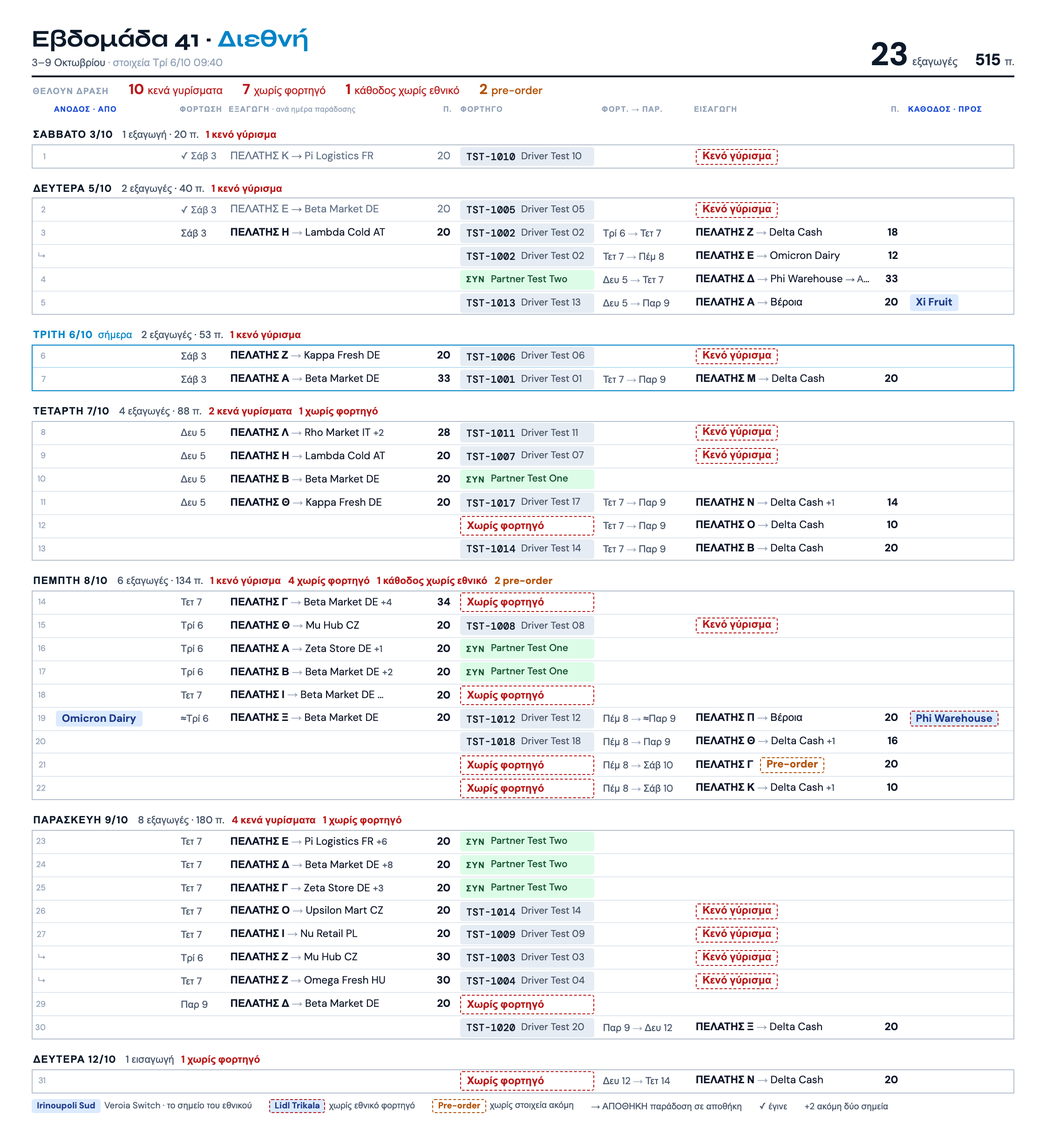
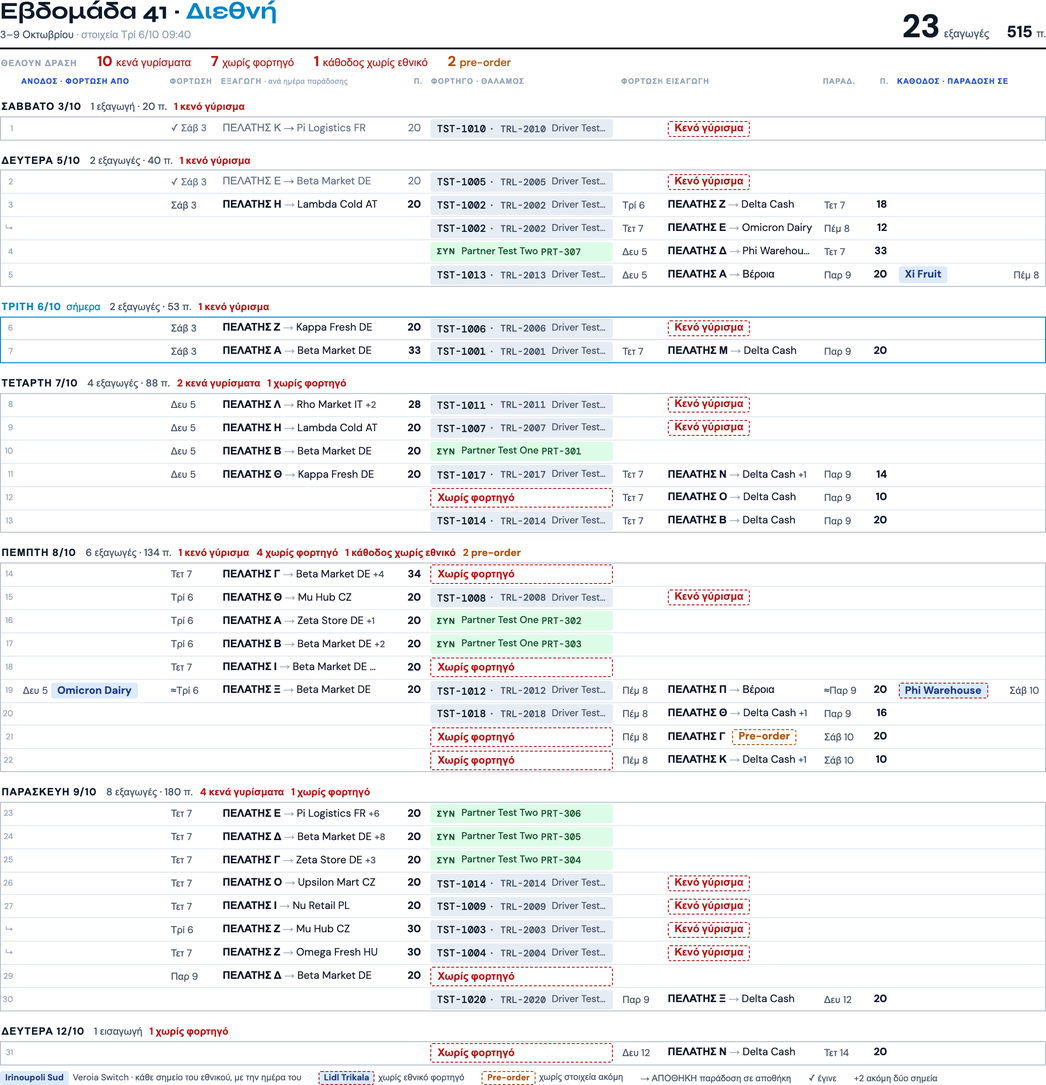
feat(week print): every national point with its day, import days beside their points, trailer plate; a real print button on the national board (owner + Pantelis 10/11)

diff --git a/core/week-paper.js b/core/week-paper.js
@@ -96,10 +96,14 @@ body { padding: 0 !important; margin: 0; }
 .wp .tk { display: flex; align-items: center; gap: .55em; background: var(--tk); border-radius: 2pt; height: calc(var(--rh) - 1.1mm); line-height: 1;
   padding: 0 .6em; overflow: hidden; }
 .wp .tk .pl { font: 500 .97em 'DM Mono', monospace; color: var(--navy); }
+.wp .tk .pl { flex: none; }
+/* the trailer's plate (Pantelis 10/11, «είναι σημαντικό»): a load is found in the yard by its trailer */
+.wp .tk .tr { flex: none; font: 500 .9em 'DM Mono', monospace; color: var(--body); margin-left: -.3em; }
 .wp .tk .dr { color: var(--body); font-size: .93em; overflow: hidden; text-overflow: ellipsis; }
 .wp .tk.p { background: #DCFCE7; }
 .wp .tk.p .pl { font: 700 .8em 'DM Sans', sans-serif; letter-spacing: .08em; color: var(--green); }
 .wp .tk.p .dr { color: var(--green); font-weight: 500; }
+.wp .tk.p .tr { color: var(--green); }
 .wp .tk.x { background: none; border: .9pt dashed var(--red); color: var(--red); font-weight: 700; }
 .wp .gap { display: inline-block; border: .9pt dashed var(--red); color: var(--red); font-weight: 700; border-radius: 2pt; padding: 0 .55em; line-height: 1.32; vertical-align: middle; }
 .wp .gap.am { border-color: var(--amber); color: var(--amber); margin-left: .35em; }
@@ -108,6 +112,18 @@ body { padding: 0 !important; margin: 0; }
 .wp .vs.ok { background: #EEF2F7; border-color: #EEF2F7; color: var(--done); font-weight: 500; }
 .wp .vs.x { border: .9pt dashed var(--red); }
 .wp .vs.q { background: none; border: .9pt dashed var(--mut); color: var(--body); }
+/* The national end of a row (owner 10/11): EVERY point in its own box and the day beside them, so the national
+   dispatcher reads from this sheet what he has to bring and to take. Two boxes share a line and are cut
+   («Irinoupo…») before one is left out; a third starts a second line and the row grows (measured 10/11: four
+   boxes on one line were one letter each). The day never shrinks. */
+.wp .vw { display: flex; align-items: center; gap: .3em; min-width: 0; }
+.wp .vw .vp { flex: 1 1 0; min-width: 0; display: flex; flex-wrap: wrap; gap: .12em .3em; padding: .1em 0; }
+.wp .vw .vs { flex: 0 1 auto; min-width: 0; max-width: calc(50% - .15em); }
+.wp .vw .vp.one .vs { max-width: 100%; }
+.wp .vw .vp:not(.one) .vs { padding: 0 .3em; }
+.wp .vw .vd { flex: none; color: var(--body); font-size: .93em; font-variant-numeric: tabular-nums; }
+.wp .vw.r .vd { margin-left: auto; padding-left: .2em; }
+.wp .vw.dn .vd { color: var(--done); }
 /* national sheet: section titles, the Veroia ledger (one line per day, numbers only, names where a truck is missing) */
 .wp .h { display: flex; align-items: baseline; gap: 8pt; margin-top: 7pt; font: 700 .98em 'DM Sans', sans-serif; letter-spacing: .07em; color: var(--navy); }
 .wp .h span { font-weight: 500; letter-spacing: 0; color: var(--mut); font-size: .9em; }
@@ -132,11 +148,18 @@ body { padding: 0 !important; margin: 0; }
 
 // state: 'done' (the national part ran) · 'plan' (a national truck has it) · 'none' (no national truck) ·
 // 'unknown' (the national read has not answered: never drawn as «no truck», unknown ≠ empty)
-function vsHTML(v) {
+// v = { points: [names], date, state }: every point is drawn (owner 10/11); `side` 'up' = the day first (the
+// supplier's loading day), 'dn' = the day last (the delivery day), each beside the points it belongs to.
+// The old shape { name, more } still draws one box with «+N».
+function vsHTML(v, side) {
   if (!v) return '';
   const cls = { done: ' ok', none: ' x', unknown: ' q' }[v.state] || '';
-  const more = v.more ? ' +' + v.more : '';
-  return `<span class="vs${cls}">${v.state === 'done' ? '✓ ' : ''}${_esc(pointName(v.name))}${more}</span>`;
+  const pts = v.points && v.points.length ? v.points : [v.name];
+  const more = !(v.points && v.points.length) && v.more ? ' +' + v.more : '';
+  const boxes = pts.map((n, i) => `<span class="vs${cls}">${v.state === 'done' && i === 0 ? '✓ ' : ''}${_esc(pointName(n))}${more}</span>`).join('');
+  const day = v.date ? `<span class="vd">${_esc(v.date)}</span>` : '';
+  const pack = `<div class="vp${pts.length === 1 ? ' one' : ''}">${boxes}</div>`;
+  return `<div class="vw${side === 'dn' ? ' r' : ''}${v.state === 'done' ? ' dn' : ''}">${side === 'dn' ? pack + day : day + pack}</div>`;
 }
 // x = an export or import side: {client, dest, more, piece, lot, pre}. An import pre-order has no place yet and
 // is drawn by rowHTML (client + tag); an export pre-order keeps its route and gets the tag after it. «ΑΠ» = a piece taken from stock; a lot goes
@@ -148,8 +171,9 @@ function sideHTML(x) {
 }
 function truckHTML(t) {
   if (!t || t.kind === 'none') return '<td class="tkc"><div class="tk x">Χωρίς φορτηγό</div></td>';
-  if (t.kind === 'par') return `<td class="tkc"><div class="tk p"><span class="pl">ΣΥΝ</span><span class="dr">${_esc(t.name || '—')}</span></div></td>`;
-  return `<td class="tkc"><div class="tk"><span class="pl">${_esc(t.plate || '—')}</span><span class="dr">${_esc(t.name || '')}</span></div></td>`;
+  // a partner's plates are free text («ΕΚΑ1234 / Ρ5678»): after the name, which is what the office knows him by
+  if (t.kind === 'par') return `<td class="tkc"><div class="tk p"><span class="pl">ΣΥΝ</span><span class="dr">${_esc(t.name || '—')}</span>${t.plates ? `<span class="tr">${_esc(t.plates)}</span>` : ''}</div></td>`;
+  return `<td class="tkc"><div class="tk"><span class="pl">${_esc(t.plate || '—')}</span>${t.trailer ? `<span class="tr">· ${_esc(t.trailer)}</span>` : ''}<span class="dr">${_esc(t.name || '')}</span></div></td>`;
 }
 // unknown pallets are «—», never 0; a group with a member off the record says «22+;» (the board's «22 +?»)
 const _unk = (x) => x.pallets == null || x.pallets === '';
@@ -158,22 +182,25 @@ const _arrow = (s) => _esc(s).replace(/ → /g, '<span class="ar">→</span>');
 
 function rowHTML(r, cls) {
   const ex = r.ex, im = r.im;
-  const c = [`<td class="i">${_esc(r.no == null ? '' : r.no)}</td>`, `<td>${vsHTML(r.up)}</td>`];
+  const c = [`<td class="i">${_esc(r.no == null ? '' : r.no)}</td>`, `<td>${vsHTML(r.up, 'up')}</td>`];
   if (ex) {
     const g = ex.done ? ' dn' : '';
     c.push(`<td class="dt${g}">${ex.done ? '<span class="tick">✓</span>' : ''}${_esc(ex.date || '—')}</td>`,
       `<td class="${g.trim()}">${sideHTML(ex)}</td>`, `<td class="p${g}">${_pal(ex)}</td>`);
   } else c.push('<td></td><td></td><td></td>');
   c.push(truckHTML(r.truck));
-  if (r.gap) c.push('<td></td>', '<td><span class="gap">Κενό γύρισμα</span></td>', '<td></td>');
-  else if (im && im.unread) c.push('<td></td>', '<td><span class="gap am" style="margin-left:0">Εισαγωγή εκτός προβολής</span></td>', '<td></td>');
+  // The import's two days stand each beside its own point (Pantelis 10/11): loading before the client, delivery
+  // after the destination. `dates` («Τρί 6 → Τετ 7») is the old shape, read as the two.
+  if (r.gap) c.push('<td></td>', '<td><span class="gap">Κενό γύρισμα</span></td>', '<td></td>', '<td></td>');
+  else if (im && im.unread) c.push('<td></td>', '<td><span class="gap am" style="margin-left:0">Εισαγωγή εκτός προβολής</span></td>', '<td></td>', '<td></td>');
   else if (im) {
     const g = im.done ? ' dn' : '';
     const txt = im.pre ? `<span class="cl">${_esc(im.client || '—')}</span> <span class="gap am">Pre-order</span>` : sideHTML(im);
-    c.push(`<td class="dt${g}">${im.done ? '<span class="tick">✓</span>' : ''}${_arrow(im.dates || '—')}</td>`,
-      `<td class="${g.trim()}">${txt}</td>`, `<td class="p${g}">${im.pre && !(+im.pallets > 0) ? '' : _pal(im)}</td>`);   // a pre-order's 0 is nobody's count
-  } else c.push('<td></td><td></td><td></td>');
-  c.push(`<td>${vsHTML(r.dn)}</td>`);
+    const two = im.load != null || im.del != null ? [im.load, im.del] : String(im.dates || '').split(' → ');
+    c.push(`<td class="dt${g}">${im.done ? '<span class="tick">✓</span>' : ''}${_esc(two[0] || '—')}</td>`,
+      `<td class="${g.trim()}">${txt}</td>`, `<td class="dt${g}">${_esc(two[1] || '')}</td>`, `<td class="p${g}">${im.pre && !(+im.pallets > 0) ? '' : _pal(im)}</td>`);   // a pre-order's 0 is nobody's count
+  } else c.push('<td></td><td></td><td></td><td></td>');
+  c.push(`<td>${vsHTML(r.dn, 'dn')}</td>`);
   return `<tr class="${cls.join(' ')}">${c.join('')}</tr>`;
 }
 
@@ -206,20 +233,24 @@ function workWords(t) {
   ].filter(Boolean);
 }
 
-/** p = { week, range, stamp, days: [{ head, today, rows: [row] }] }; row = { no, up, ex, truck, im, gap, dn }
+/** p = { week, range, stamp, days: [{ head, today, rows: [row] }] }; row = { no, up, ex, truck, im, gap, dn };
+ *  up / dn = { points, date, state }; truck = { kind, plate, trailer, name } | { kind:'par', name, plates }; im = { load, del, … }
  *  (see rowHTML / vsHTML / sideHTML for the fields; a side's pallets: null = unknown, palMiss = partly known;
  *  a row may carry `rid`, the board row's id: never printed, the board rig compares the two row by row). Days without rows are not printed. */
 function intlHTML(p) {
   const days = (p.days || []).filter((d) => d.rows && d.rows.length);
   const all = days.reduce((a, d) => a.concat(d.rows), []);
-  const sz = size(all.length, days.length), T = tally(all);
+  // a national end with more than two points takes a second line (two boxes a line): the page arithmetic counts it
+  const lines = (v) => (v && v.points ? Math.ceil(v.points.length / 2) : 1);
+  const extra = all.reduce((n, r) => n + Math.max(lines(r.up), lines(r.dn)) - 1, 0);
+  const sz = size(all.length + extra * 0.9, days.length), T = tally(all);
   const body = [];
   for (const d of days) {
     const t = tally(d.rows);
     const w = workWords(t).map(([c, s]) => `<span class="w${c}">${s}</span>`).join('');
     // a day with imports only (they load that day) says so, never «0 εξαγωγές · 0 π.»
     const head = t.exports ? `${plural(t.exports, 'εξαγωγή', 'εξαγωγές')} · ${t.pallets} π.${t.palUnknown ? ' +;' : ''}` : plural(d.rows.length, 'εισαγωγή', 'εισαγωγές');
-    body.push(`<tr class="day${d.today ? ' today' : ''}"><td colspan="10">${_esc(d.head)}${d.today ? '<span class="t">σήμερα</span>' : ''}` +
+    body.push(`<tr class="day${d.today ? ' today' : ''}"><td colspan="11">${_esc(d.head)}${d.today ? '<span class="t">σήμερα</span>' : ''}` +
       `<span>${head}</span>${w}</td></tr>`);
     d.rows.forEach((r, j) => body.push(rowHTML(r, [j === 0 ? 'f' : '', j === d.rows.length - 1 ? 'l' : '', d.today ? 'td' : ''].filter(Boolean))));
   }
@@ -228,7 +259,7 @@ function intlHTML(p) {
   // The legend explains only what this sheet holds: a mark that is not on the page is not a line to read.
   const hasVs = all.some((r) => r.up || r.dn);
   const legend = [
-    hasVs && '<span><span class="vs">Irinoupoli Sud</span>Veroia Switch · το σημείο του εθνικού</span>',
+    hasVs && '<span><span class="vs">Irinoupoli Sud</span>Veroia Switch · κάθε σημείο του εθνικού, με την ημέρα του</span>',
     (T.dnNone || T.upNone) && '<span><span class="vs x">Lidl Trikala</span>χωρίς εθνικό φορτηγό</span>',
     all.some((r) => (r.up && r.up.state === 'unknown') || (r.dn && r.dn.state === 'unknown')) && '<span><span class="vs q">Lidl Trikala</span>το εθνικό δεν διαβάστηκε</span>',
     T.pre && '<span><span class="gap am">Pre-order</span>χωρίς στοιχεία ακόμη</span>',
@@ -239,13 +270,13 @@ function intlHTML(p) {
   return `<link rel="stylesheet" href="${FONTS}" media="none" onload="this.media='all'"><style>${CSS}
 @page { @bottom-left { content: "Petras Group TMS · ${title} · στοιχεία ${_esc(p.stamp)}"; font: 7pt 'DM Sans', sans-serif; color: #94A3B8; } }
 .wp { --fs:${sz.fs}pt; --rh:${sz.rh}mm; }
-.wp col.k-i{width:1.8%} .wp col.k-up{width:12.8%} .wp col.k-ed{width:5%} .wp col.k-ex{width:20.8%} .wp col.k-p{width:2.8%} .wp col.k-tk{width:14.4%} .wp col.k-id{width:9.4%} .wp col.k-im{width:19%} .wp col.k-dn{width:11.2%}
+.wp col.k-i{width:1.6%} .wp col.k-up{width:14.2%} .wp col.k-ed{width:4.9%} .wp col.k-ex{width:17.6%} .wp col.k-p{width:2.5%} .wp col.k-tk{width:18.2%} .wp col.k-id{width:4.3%} .wp col.k-im{width:15%} .wp col.k-dl{width:4.6%} .wp col.k-dn{width:14.6%}
 </style><div class="wp">
 <header class="mast"><div><h1>Εβδομάδα ${_esc(p.week)} · <em>Διεθνή</em></h1><div class="sub">${_esc(p.range)} <i>· στοιχεία ${_esc(p.stamp)}</i></div></div>
 <div class="kpi"><span class="big"><b>${T.exports}</b><span>${T.exports === 1 ? 'εξαγωγή' : 'εξαγωγές'}</span></span><span class="mid"><b>${T.pallets}</b><span>π.${T.palUnknown ? ' +;' : ''}</span></span></div></header>
 <div class="act">${act ? '<label>ΘΕΛΟΥΝ ΔΡΑΣΗ</label>' + act : ''}</div>
-<table class="b"><colgroup><col class="k-i"><col class="k-up"><col class="k-ed"><col class="k-ex"><col class="k-p"><col class="k-tk"><col class="k-id"><col class="k-im"><col class="k-p"><col class="k-dn"></colgroup>
-<thead><tr><th></th><th class="vh">ΑΝΟΔΟΣ · ΑΠΟ</th><th>ΦΟΡΤΩΣΗ</th><th>ΕΞΑΓΩΓΗ <small>· ανά ημέρα παράδοσης</small></th><th class="r">Π.</th><th>ΦΟΡΤΗΓΟ</th><th>ΦΟΡΤ. → ΠΑΡ.</th><th>ΕΙΣΑΓΩΓΗ</th><th class="r">Π.</th><th class="vh">ΚΑΘΟΔΟΣ · ΠΡΟΣ</th></tr></thead>
+<table class="b"><colgroup><col class="k-i"><col class="k-up"><col class="k-ed"><col class="k-ex"><col class="k-p"><col class="k-tk"><col class="k-id"><col class="k-im"><col class="k-dl"><col class="k-p"><col class="k-dn"></colgroup>
+<thead><tr><th></th><th class="vh">ΑΝΟΔΟΣ · ΦΟΡΤΩΣΗ ΑΠΟ</th><th>ΦΟΡΤΩΣΗ</th><th>ΕΞΑΓΩΓΗ <small>· ανά ημέρα παράδοσης</small></th><th class="r">Π.</th><th>ΦΟΡΤΗΓΟ · ΘΑΛΑΜΟΣ</th><th>ΦΟΡΤΩΣΗ</th><th>ΕΙΣΑΓΩΓΗ</th><th>ΠΑΡΑΔ.</th><th class="r">Π.</th><th class="vh">ΚΑΘΟΔΟΣ · ΠΑΡΑΔΟΣΗ ΣΕ</th></tr></thead>
 <tbody>${body.join('')}</tbody></table>
 <div class="legend">${legend.join('')}</div>
 </div>`;

diff --git a/modules/weekly_intl_v2.js b/modules/weekly_intl_v2.js
@@ -3017,22 +3017,16 @@ function _qAct(i) {
 // is (the board's ghost line), never the optimistic link.
 const _PAPER_SKIP = Object.freeze(['split', 'cont', 'relay']);
 const _paperDay = (d) => (DAY_RE.test(d || '') ? DOW_SHORT[_dow(d)] + ' ' + (+d.slice(8, 10)) : '');
-// The point with the most pallets names the box, the others are «+N» (owner 9/11). Stops without their own
-// pallets (a single-point order) leave the first one.
-function _paperPoint(stops) {
-  if (!stops.length) return null;
-  const pal = (x) => (x.pal != null && x.pal !== '' && isFinite(+x.pal) ? +x.pal : -1);
-  let best = stops[0];
-  stops.forEach((x) => { if (pal(x) > pal(best)) best = x; });
-  return { name: _splitName(best.n).title, more: stops.length - 1 };
-}
+// Every point of the national end, in the order of its stops, and the day beside them (owner 10/11: the national
+// dispatcher reads from this sheet what he has to bring and to take). The day is the order's own: the supplier's
+// loading day for an ascent, the final delivery day for a descent.
 // One reading per VS order (natBySrc, the board's own): done · a national truck has it · none · not read yet.
 // A VS order with no point to name is still a VS order: its box takes the fallback name (the board's own, the client).
-function _paperVs(oid, stops, fallback) {
-  const pt = _paperPoint(stops) || { name: fallback || '—', more: 0 };
+function _paperVs(oid, stops, fallback, day) {
+  const points = stops.map((x) => _splitName(x.n).title).filter(Boolean);
   let state = 'unknown';
   if (_natState() === 'ok') { const n = (_D().data.natBySrc || {})[oid]; state = !n ? 'none' : (n.done === true ? 'done' : (n.carrier ? 'plan' : 'none')); }
-  return Object.assign(pt, { state });
+  return { points: points.length ? points : [fallback || '—'], date: _paperDay(day), state };
 }
 function _paperDest(recs) {
   const stops = [];
@@ -3051,8 +3045,10 @@ function _paperTruck(row) {
   if (!row || !row.saved) return { kind: 'none' };
   const D = _D().data, lab = (list, id) => ((list || []).find((x) => x.id === id) || {}).label;
   const partner = row.partnerLabel || lab(D.partners, row.partnerId) || (row.partnerId ? '—' : '');
-  if (partner) return { kind: 'par', name: partner };
-  return { kind: 'own', plate: row.truckLabel || lab(D.trucks, row.truckId) || '—', name: row.driverLabel || lab(D.drivers, row.driverId) || '' };
+  if (partner) return { kind: 'par', name: partner, plates: row.partnerPlates || '' };
+  // the trailer by _asgHTML's own chain: «—» when it is set but outside the active list, never nothing
+  return { kind: 'own', plate: row.truckLabel || lab(D.trucks, row.truckId) || '—', trailer: row.trailerLabel || lab(D.trailers, row.trailerId) || (row.trailerId ? '—' : ''),
+    name: row.driverLabel || lab(D.drivers, row.driverId) || '' };
 }
 function _paperImp(imp) {
   const I = W(), { members } = _impMembers(imp);
@@ -3063,9 +3059,9 @@ function _paperImp(imp) {
   const del = vs ? (v.iso ? (v.est ? '≈' : '') + _paperDay(v.iso) : '') : _paperDay(_day(f['Delivery DateTime']));
   const d = vs ? { dest: 'Βέροια', more: 0 } : _paperDest(members);
   return {
-    im: Object.assign({ dates: [load, del].filter(Boolean).join(' → '), client: I.clientName(f) || _firstTitle(f, 'load'), dest: d.dest, more: d.more,
+    im: Object.assign({ load, del, client: I.clientName(f) || _firstTitle(f, 'load'), dest: d.dest, more: d.more,
       done: !!st.delivered, pre: _isPre(f) }, _paperPal(members), _paperStock(members)),
-    dn: vs ? _paperVs(imp.id, _stopsOf(f, 'del'), I.clientName(f)) : null,
+    dn: vs ? _paperVs(imp.id, _stopsOf(f, 'del'), I.clientName(f), _day(f['Delivery DateTime'])) : null,
   };
 }
 function _paperRow(e) {
@@ -3087,7 +3083,7 @@ function _paperRow(e) {
   const d = _paperDest(exps);
   // A VS export loads at Veroia: its day is the Veroia day (the board's own chip), never the supplier's.
   const v = vs ? (I.vsCd(pf, 'exp') || {}) : null;
-  base.up = vs ? _paperVs(exps[0].id, _stopsOf(pf, 'load'), I.clientName(pf)) : null;
+  base.up = vs ? _paperVs(exps[0].id, _stopsOf(pf, 'load'), I.clientName(pf), _day(pf['Loading DateTime'])) : null;
   base.ex = Object.assign({ date: vs ? (v.iso ? (v.est ? '≈' : '') + _paperDay(v.iso) : '') : _paperDay(_day(pf['Loading DateTime'])),
     client: I.clientName(pf) || _firstTitle(pf, 'load'), dest: d.dest, more: d.more, done: !!st.delivered,
     pre: !isGroup && _isPre(pf) }, _paperPal(exps), _paperStock(exps));   // a pre-order export is said, as the board's «PRE»

diff --git a/tests/critics/wi4-board-rig.js b/tests/critics/wi4-board-rig.js
@@ -3885,8 +3885,11 @@ async function scnPaper(browser, origin) {
       trs: cnt(/<tr class="(?!day)/g), nRows: rows.length, days: cnt(/<tr class="day/g), nDays: p.days.filter((d) => d.rows.length).length,
       gaps: [(tbody.match(/>Κενό γύρισμα</g) || []).length, strip('κεν')], noTruck: [(tbody.match(/class="tk x"/g) || []).length, strip('χωρίς φορτηγό')],
       dn: [rows.filter((x) => x.dn && x.dn.state === 'none').length, strip('κάθοδο')], up: [rows.filter((x) => x.up && x.up.state === 'none').length, strip('άνοδο')],
-      vsBoxes: [(tbody.match(/class="vs/g) || []).length, rows.filter((x) => x.up).length + rows.filter((x) => x.dn).length],
-      bad: (h.replace(/<style>[\s\S]*?<\/style>/, '').match(/RT-\d+|κύκλ|σκέλ|κομμάτι|undefined|NaN|\[object/gi) || []), today: cnt(/<tr class="day today"/g), html: h };
+      vsBoxes: [(tbody.match(/class="vs/g) || []).length, rows.reduce((n, x) => n + (x.up ? x.up.points.length : 0) + (x.dn ? x.dn.points.length : 0), 0)],
+      // owner + Pantelis 10/11: each national end carries its day, each own truck with a trailer on the board prints it
+      vsDays: rows.filter((x) => x.up || x.dn).map((x) => [x.up && x.up.date, x.dn && x.dn.date]), vsMulti: rows.some((x) => [x.up, x.dn].some((v) => v && v.points.length > 1)),
+      trailers: [rows.filter((x) => x.truck.kind === 'own' && x.truck.trailer).length, (tbody.match(/<span class="tr">· /g) || []).length],
+      bad: (h.replace(/<style>[\s\S]*?<\/style>/, '').replace(/<span class="tr">[^<]*<\/span>/g, '').match(/RT-\d+|κύκλ|σκέλ|κομμάτι|undefined|NaN|\[object/gi) || []), today: cnt(/<tr class="day today"/g), html: h };
   });
   ok(scn, 'one print window, titled by the week', r.calls === 1 && /^Εβδομάδα \d+ · Διεθνή$/.test(r.title || ''), [r.calls, r.title]);
   const split = (r.skipped && r.skipped.split) || 0;
@@ -3895,7 +3898,9 @@ async function scnPaper(browser, origin) {
   ok(scn, 'rows and day headers drawn = rows and days of the model', r.trs === r.nRows && r.days === r.nDays && r.nRows > 10, [r.trs, r.nRows, r.days, r.nDays]);
   ok(scn, 'strip counts = marks drawn (empty returns, no truck, descents, ascents)', r.gaps[0] === r.gaps[1] && r.noTruck[0] === r.noTruck[1] && r.dn[0] === r.dn[1] && r.up[0] === r.up[1],
     { gaps: r.gaps, noTruck: r.noTruck, dn: r.dn, up: r.up });
-  ok(scn, 'one blue box per Veroia Switch end, and the week holds both kinds', r.vsBoxes[0] === r.vsBoxes[1] && r.vsBoxes[0] >= 2, r.vsBoxes);
+  ok(scn, 'one blue box per POINT of every Veroia Switch end (none behind «+N»), and the week holds both kinds', r.vsBoxes[0] === r.vsBoxes[1] && r.vsBoxes[0] >= 2, r.vsBoxes);
+  ok(scn, 'every Veroia Switch end prints its own day beside its points', r.vsDays.length >= 2 && r.vsDays.every((d) => d.every((x) => x == null || /^≈?\S+ \d+$/.test(x))), r.vsDays);
+  ok(scn, 'every own truck that has a trailer prints its plate', r.trailers[0] === r.trailers[1] && r.trailers[0] >= 1, r.trailers);
   ok(scn, 'no code, no jargon, no broken value on the sheet', !r.bad.length, r.bad);
   ok(scn, 'each export row says what its board row drew: empty return, matched load, truck / partner / none', !r.drift.length && r.compared >= 15, { compared: r.compared, drift: r.drift });
   ok(scn, 'a VS export prints the board\'s Veroia day and its blue box', !r.vsBad.length && r.vsSeen >= 1, { seen: r.vsSeen, bad: r.vsBad });

diff --git a/modules/weekly_natl_v5.js b/modules/weekly_natl_v5.js
@@ -860,11 +860,12 @@ function _colsHTML() {
   // Owner 31/10: the column names only — no «N κύκλοι» counts, no «ανά ημέρα φόρτωσης Βέροιας» note (a professional
   // board does not count «cycles»; the rows are what is counted).
   return '<div class="wn5-cols" role="row">'
-    // The printed week (owner 10/11) starts here, in the empty head of the number column: the top bar has no room
-    // for one more button at 1440 (its right side takes its full width, so each pixel there is taken from the title
-    // and the range: the rig's bar-fit check failed with a word and with an icon). The header shows only on a board
-    // that was read, so there is never a sheet of a week that did not load.
-    + `<span class="wn5-c-idx"><button type="button" data-act="print-week" title="Εκτύπωση εβδομάδας" aria-label="Εκτύπωση εβδομάδας" onclick="WN5.printWeek()" style="all:unset;cursor:pointer;display:inline-flex;vertical-align:middle;color:var(--wi4-grey-2)">${typeof icon === 'function' ? icon('printer', 13, '', 2) : '⎙'}</button></span>`
+    // The printed week (owner 10/11) starts here, in the head of the number column: the top bar has no room for one
+    // more button at 1440 (its right side takes its full width, so each pixel there is taken from the title and the
+    // range: the rig's bar-fit check failed with a word and with an icon). It is a real button, bordered like the
+    // board's other controls: as a bare grey icon the owner did not find it («δεν υπάρχει κουμπί εκτύπωσης», 10/11).
+    // The header shows only on a board that was read, so there is never a sheet of a week that did not load.
+    + `<span class="wn5-c-idx"><button type="button" class="wn5-print" data-act="print-week" title="Εκτύπωση εβδομάδας" aria-label="Εκτύπωση εβδομάδας" onclick="WN5.printWeek()">${typeof icon === 'function' ? icon('printer', 15, '', 2) : '⎙'}</button></span>`
     + '<span class="wn5-c-kd">ΚΑΘΟΔΟΣ</span><span class="wn5-c-kfl">ΦΟΡΤΩΣΗ</span>'
     + '<span class="wn5-c-kto">ΠΑΡΑΔΟΣΗ</span>'
     + '<span class="wn5-c-kpal">ΠΑΛ.</span><span class="wn5-c-asg wn5-h-asg">ΑΝΑΘΕΣΗ</span>'

diff --git a/app.html b/app.html
@@ -10,7 +10,7 @@
 <!-- DM Sans 600/700: το TRIP PnL (Figma 28/8) ζητά πραγματικά SemiBold/Bold
      ποσά — χωρίς αυτά ο browser συνθέτει faux-bold απ' το 500. -->
 <link href="https://fonts.googleapis.com/css2?family=Syne:wght@400;500;600;700;800&family=DM+Sans:wght@300;400;500;600;700&family=DM+Mono:wght@400;500&display=swap" rel="stylesheet">
-<link rel="stylesheet" href="assets/style.css?v=1794520000">
+<link rel="stylesheet" href="assets/style.css?v=1794580000">
 <link rel="stylesheet" href="assets/route-diagram.css?v=1794420000">
 </head>
 <body>
@@ -123,7 +123,7 @@
 <script src="core/countries.js?v=1788767479"></script>
 <script src="core/utils.js?v=1793482508"></script>
 <!-- The printed week (owner 10/11): pure, plain rows in and HTML out; the board modules feed it. -->
-<script src="core/week-paper.js?v=1794570000"></script>
+<script src="core/week-paper.js?v=1794580000"></script>
 <script src="core/tms-week.js?v=1791046616"></script>
   <script src="core/share-helpers.js?v=1790108919"></script>
 <script src="core/ui.js?v=1792010591"></script>
@@ -169,7 +169,7 @@
 <script src="modules/preorder.js?v=1793185134"></script>
 <script src="modules/dashboard.js?v=1792009610"></script>
 <script src="modules/weekly_intl.js?v=1794460000"></script>
-<script src="modules/weekly_intl_v2.js?v=1794560000"></script>
+<script src="modules/weekly_intl_v2.js?v=1794580000"></script>
 <script src="modules/wi4_actions.js?v=1794010000"></script>
 <script src="modules/weekly_natl.js?v=1793048102"></script>
   <script src="modules/daily_ramp.js?v=1793213921"></script>
@@ -182,7 +182,7 @@
   <script src="modules/orders_intl.js?v=1794510000"></script>
 <script src="modules/orders_natl.js?v=1794190000"></script>
 <!-- 3a. Weekly National v5 (F4α): inert while FEATURES.WN_V5 is 'off' (one seam line in modules/weekly_natl.js). -->
-<script src="modules/weekly_natl_v5.js?v=1794570000"></script>
+<script src="modules/weekly_natl_v5.js?v=1794580000"></script>
 <script src="modules/wn5_actions.js?v=1794540000"></script>
 <script src="modules/wn5_assign.js?v=1794440000"></script>
 <script src="modules/wn5_veroia.js?v=1794310000"></script>

diff --git a/assets/style.css b/assets/style.css
@@ -9176,6 +9176,11 @@ body.wn5-on .content { padding-left:28px; padding-right:28px; padding-top:10px; 
 .wn5 .wn5-c-idx .wi4-plane { margin-left:auto; width:26px; height:26px; background:var(--surface-card); border:1px solid var(--wi4-ctl); border-radius:6px;
   color:var(--wi4-grey-1); box-shadow:0 1px 1px rgba(16,24,40,.06); }
 .wn5 .wn5-c-idx .wi4-plane:hover { border-color:var(--wn5-ctl-hover); background:var(--surface-card); color:var(--wi4-ink); }
+/* «Εκτύπωση εβδομάδας»: a bordered control in the head of the number column, seen without looking for it (owner 10/11) */
+.wn5 .wn5-cols > .wn5-c-idx { padding:0 2px 0 10px; }
+.wn5 .wn5-print { display:inline-flex; align-items:center; justify-content:center; width:30px; height:24px; padding:0; cursor:pointer;
+  background:var(--surface-card); border:1px solid var(--wi4-ctl); border-radius:6px; color:var(--wi4-ink); }
+.wn5 .wn5-print:hover { border-color:var(--wn5-ctl-hover); background:var(--wi4-chip); }
 /* 087 + 2f: a waiting VS with pieces at Veroia carries «VS» and ✈ in the 48px index cell — a tighter cell and a
    22px ✈ so both stay inside it (code review high 1/11: the 26px ✈ spilled 3.5px at 1440) */
 .wn5 .wn5-c-idx:has(> .wn5-vstag + .wi4-plane) { padding:0 2px 0 6px; }

diff --git a/sw.js b/sw.js
@@ -7,7 +7,7 @@
 //   - Offline banner via postMessage to all clients
 // ═══════════════════════════════════════════════════════════
 
-const SW_VERSION = '1794570000';
+const SW_VERSION = '1794580000';
 
 // Το vendor/leaflet/* ΔΕΝ μπαίνει στο APP_SHELL επίτηδες: το pre-cache στο
 // install θα κατέβαζε 228 KB σε κάθε χρήστη, ακυρώνοντας το lazy loading της

diff --git a/docs/design/week-print/README.md b/docs/design/week-print/README.md
@@ -23,6 +23,23 @@
 
 Ίδια με το σχέδιο: ομάδες ανά ημέρα με τη σημερινή σε μπλε, φορτηγό στη μέση, μπλε κουτί Veroia Switch με όνομα σημείου, «Κενό γύρισμα» / «Χωρίς φορτηγό» / «Pre-order», γραμμή «Θέλουν δράση», γκρι με ✓ για τα παραδομένα, εισαγωγές χωρίς εξαγωγή στην ημέρα φόρτωσής τους, «→ Βέροια» με την ημέρα Βέροιας.
 
+## Αλλαγές 10/11 μετά την πρώτη εκτύπωση (σημειώσεις Παντελή + owner)
+
+Ζητήθηκαν πάνω στο τυπωμένο φύλλο της εβδομάδας 46. Η εικόνα πάνω είναι ήδη με αυτές.
+
+![Γραμμές με πολλά σημεία εθνικού, συνθετικά στοιχεία](intl-paper-points-sample.png)
+
+| Σημείο | Πριν | Τώρα | Ποιος το ζήτησε |
+|---|---|---|---|
+| Ημέρες εισαγωγής | «Τρί 6 → Τετ 7» μαζί, πριν από την εισαγωγή | φόρτωση πριν από τον πελάτη, παράδοση μετά τον προορισμό | Παντελής («η κόκκινη γραμμή να πάει εκεί») |
+| Ημέρα στην αρχή της γραμμής | δεν υπήρχε | η ημέρα φόρτωσης της ανόδου πριν από τα σημεία της | Παντελής («μια ίδια στήλη στην αρχή»), owner («οι ημερομηνίες δίπλα σε κάθε σημείο») |
+| Ημέρα παράδοσης καθόδου | δεν υπήρχε | μετά τα σημεία της καθόδου | owner |
+| Σημεία εθνικού | ένα κουτί + «+N» | κάθε σημείο δικό του κουτί, δύο ανά σειρά, κομμένα αν δεν χωρούν· τρίτο σημείο = δεύτερη σειρά, η γραμμή ψηλώνει | owner (να βλέπει ο εθνικός dispatcher τι φέρνει και τι παίρνει) |
+| Θάλαμος | μόνο η πινακίδα του φορτηγού | «φορτηγό · θάλαμος» και μετά ο οδηγός· στον συνεργάτη οι πινακίδες του μετά το όνομα | Παντελής («είναι σημαντικό») |
+| Κουμπί εκτύπωσης Εθνικών | γκρι εικονίδιο 13px | κουμπί με πλαίσιο στην ίδια θέση | owner («δεν υπάρχει κουμπί εκτύπωσης») |
+
+Η ημέρα παράδοσης της εξαγωγής δεν έχει δική της στήλη: είναι η κεφαλίδα της ομάδας.
+
 # Εκτύπωση εβδομάδας Εθνικών v5: σχέδιο και υλοποίηση
 
 Ίδια εγκεκριμένη σειρά σχεδίων (10/11/2026· πινακίδα διεθνούς: «Ναι, με πινακίδα»). Η υλοποίηση πάνω στη συνθετική εβδομάδα του rig (`node tests/critics/wn5-board-rig.js paper --shots <φάκελος>` γράφει το `natl-paper.html`):

diff --git a/docs/DECISION_LOG.md b/docs/DECISION_LOG.md
@@ -6240,3 +6240,10 @@ SELECT μετά την εκτέλεση: #525 και #528 στο RT-1240 (closed
 **Μένει:** έλεγχος με πραγματική εβδομάδα στη ζωντανή εφαρμογή μετά το merge· το παράθυρο εκτύπωσης ανοίγει μετά την ανάγνωση, άρα ένας αυστηρός browser μπορεί να το μπλοκάρει στο πρώτο πάτημα (το δεύτερο ανοίγει αμέσως, οι πινακίδες κρατιούνται 2 λεπτά).
 **Ποιος:** owner (σχέδιο, έγκριση, πινακίδα), agent (υλοποίηση).
 
+### 2026-11-10 · Εκτύπωση εβδομάδας Διεθνών · Κάθε ημέρα δίπλα στο σημείο της, όλα τα σημεία του εθνικού, θάλαμος (owner + Παντελής 10/11)
+**Επιλογή (owner 10/11, μετά την πρώτη εκτύπωση):** το χαρτί των Διεθνών το διαβάζει και ο εθνικός dispatcher. Κάθε άκρο Veroia Switch δείχνει ΟΛΑ τα σημεία του (όχι «+N») και την ημέρα του: άνοδος = ημέρα φόρτωσης στον προμηθευτή, πριν από τα σημεία· κάθοδος = ημέρα τελικής παράδοσης, μετά τα σημεία. Η εισαγωγή έχει τη φόρτωση πριν και την παράδοση μετά (σημείωση Παντελή). Το φορτηγό τυπώνεται με τον θάλαμό του (Παντελής: «είναι σημαντικό»).
+**Από πού οι ημέρες:** από τη διεθνή παραγγελία (`Loading DateTime`, `Delivery DateTime`), όχι από το εθνικό δρομολόγιο: ο πίνακας των Διεθνών δεν διαβάζει ημέρες εθνικού. Αν ο εθνικός dispatcher μεταθέσει το δικό του δρομολόγιο χωρίς να αλλάξει η παραγγελία, το χαρτί δείχνει την ημέρα της παραγγελίας.
+**Εναλλακτικές:** (α) όλα τα σημεία σε μία σειρά: μετρήθηκε, τέσσερα σημεία έβγαιναν ένα γράμμα το καθένα· (β) παλέτες ανά σημείο: δεν χωρούν, μένει το σύνολο στη στήλη «Π.».
+**Κόστος:** η στήλη εξαγωγής στένεψε από 20,8% σε 17,6% και της εισαγωγής από 19% σε 15%· μακριά ονόματα κόβονται νωρίτερα.
+**Απόδειξη:** `tests/week-paper.test.js` (17)· rig `wi4-board-rig.js paper` (14 έλεγχοι, νέοι: ένα κουτί ανά σημείο, ημέρα σε κάθε άκρο, θάλαμος όπου υπάρχει)· εικόνες στο `docs/design/week-print/`.
+**Ποιος:** owner και Παντελής (αίτημα), agent (υλοποίηση).

diff --git a/docs/SESSION.md b/docs/SESSION.md
@@ -12,6 +12,7 @@ What is live (commit, versions, flags) is not kept here: it goes stale within ho
 ## Now (each owner edits only their own lines)
 
 **In flight** (who · branch · topic)
+- dimitris · `feat/week-print-points` · Χαρτί εβδομάδας Διεθνών μετά την πρώτη εκτύπωση (Παντελής + owner 10/11): ημέρες δίπλα σε κάθε σημείο, όλα τα σημεία εθνικού, θάλαμος· Εθνικά: κουμπί εκτύπωσης με πλαίσιο· μόνο front end, ?v= / SW_VERSION 1794580000 (`docs/sessions/2026-11-10-dimitris-week-print-points.md`)
 - dimitris · `feat/week-print-natl` · Εθνικά v5: χαρτί εβδομάδας A4 (πίνακας Βέροιας + δρομολόγια, πινακίδα διεθνούς στο μπλε κουτί, owner 10/11 «Ναι, με πινακίδα»)· `WN5.printWeek`, ανάγνωση `/costs/rt?order_ids=` στην εκτύπωση· μόνο front end, **πάνω στο #306**, ?v= / SW_VERSION 1794570000 (`docs/sessions/2026-11-10-dimitris-week-print-natl.md`)
 - dimitris · `feat/week-print-papers` · Weekly Διεθνών: νέο χαρτί εβδομάδας A4 (σχέδιο owner 10/11, «οκ το προχωράμε»): ο πίνακας v4 σε χαρτί, φορτηγό στη μέση, Veroia Switch σε μπλε κουτί, «Θέλουν δράση»· `core/week-paper.js` + `WIV2.printWeek`· μόνο front end, ?v= / SW_VERSION 1794560000· μένει το χαρτί των Εθνικών v5 (δικό του PR, θέλει απόφαση owner για την πινακίδα διεθνούς) (`docs/sessions/2026-11-10-dimitris-week-print-intl.md`)
 - dimitris · `fix/costs-pnl-limit-v2` · P&L: το `GET /costs/pnl` διαβάζει ΟΛΑ τα RT, χωρίς όριο (owner 8/11), σελίδες keyset ως τον ακριβή αριθμό, ⚠ μόνο σε αποτυχία· ξαναχτίστηκε 9/11 πάνω στον ζωντανό d4e2ce0a, φρουρός `… --ifs 1 --pnl 1` (44 σημάδια)· αντικαθιστά το #145· deploy από τον owner μετά τις 15:00 (`docs/sessions/2026-11-08-dimitris-costs-pnl-limit-v2.md`)

diff --git a/docs/sessions/2026-11-10-dimitris-week-print-points.md b/docs/sessions/2026-11-10-dimitris-week-print-points.md
@@ -1,0 +1,7 @@
+# 2026-11-10 · dimitris · Χαρτί εβδομάδας μετά την πρώτη εκτύπωση (Παντελής + owner)
+
+- **Τι άλλαξε:** χαρτί Διεθνών (`core/week-paper.js`, `_paperVs` / `_paperTruck` / `_paperImp` στο `modules/weekly_intl_v2.js`): κάθε σημείο του εθνικού σε δικό του κουτί με την ημέρα του, ημέρες εισαγωγής χωριστά (φόρτωση πριν, παράδοση μετά), θάλαμος δίπλα στο φορτηγό, πινακίδες συνεργάτη. Εθνικά v5: το κουμπί εκτύπωσης έγινε κουμπί με πλαίσιο (ίδια θέση, κεφαλίδα στήλης αριθμών). Τα #306 και #308 είναι merged και ζωντανά από το πρωί. `?v=` / `SW_VERSION` 1794580000.
+- **Τι αποφασίστηκε:** οι ημέρες των άκρων Veroia Switch είναι της διεθνούς παραγγελίας, όχι του εθνικού δρομολογίου· τρίτο σημείο = δεύτερη σειρά στο κελί (`docs/DECISION_LOG.md`).
+- **Έλεγχοι:** σουίτα node 1401 / 0 αποτυχίες· rig `wi4-board-rig.js paper` GO (14), `wn5-board-rig.js` ολόκληρο GO· `/code-review high` (βλ. PR).
+- **Τι ΔΕΝ ελέγχθηκε:** εκτύπωση με πραγματική εβδομάδα μετά από αυτή την αλλαγή· πραγματικό μήκος πινακίδων θαλάμων και ονομάτων σημείων στο πλάτος των στηλών.
+- **Τι μένει:** λέξη «Εκτύπωση» στην πάνω μπάρα των Εθνικών δεν χωρά στα 1440 χωρίς να φύγει κάτι άλλο (απόφαση owner αν τη θέλει).
